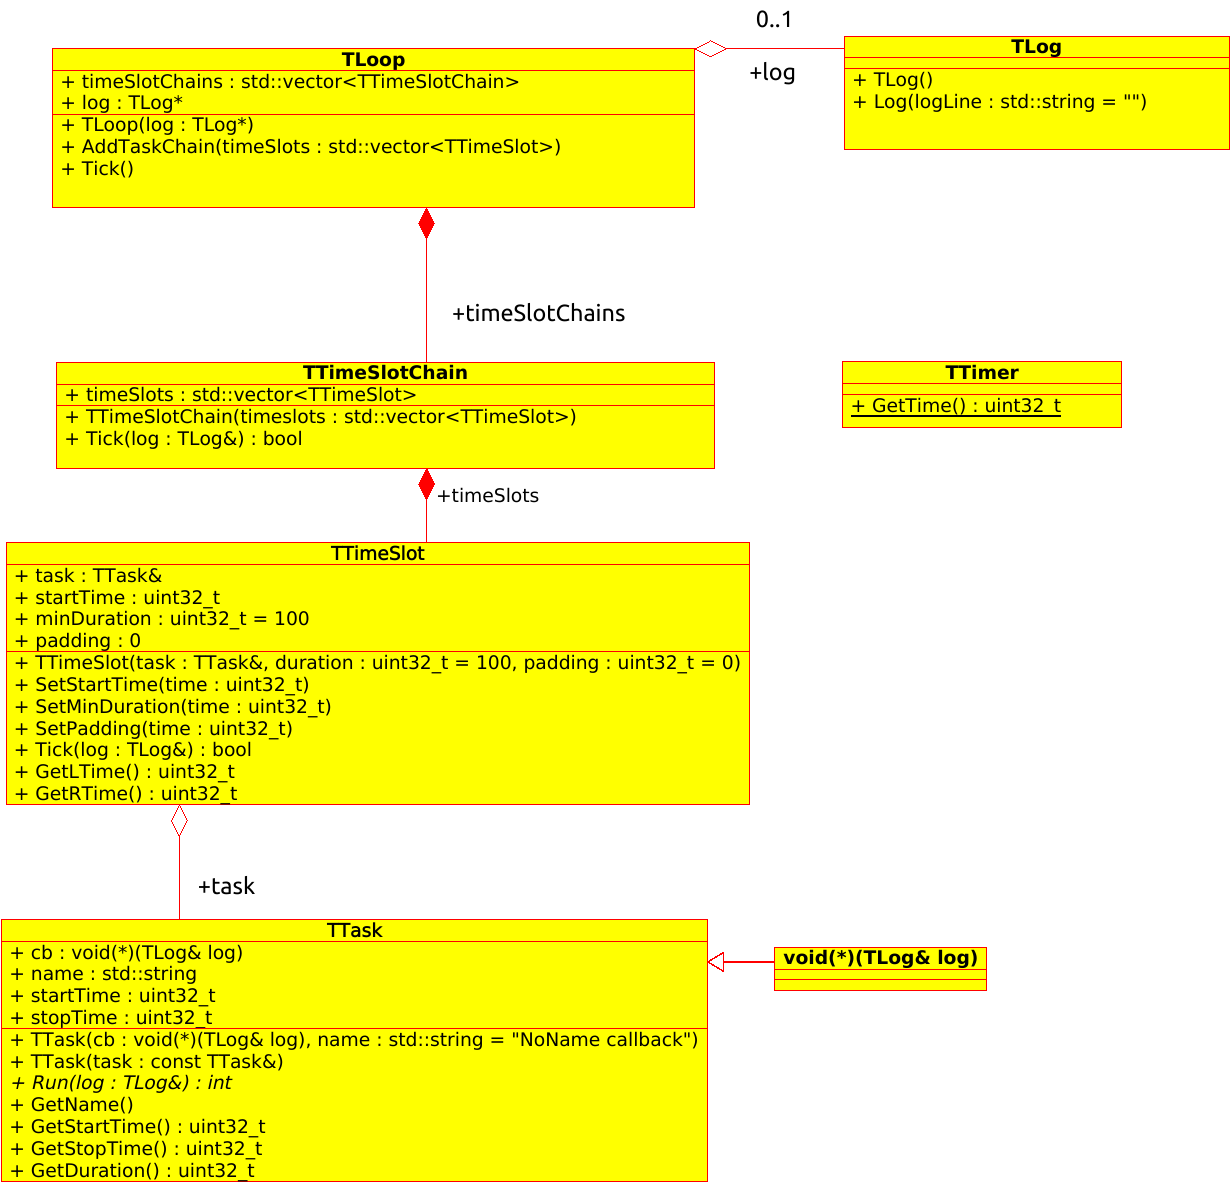
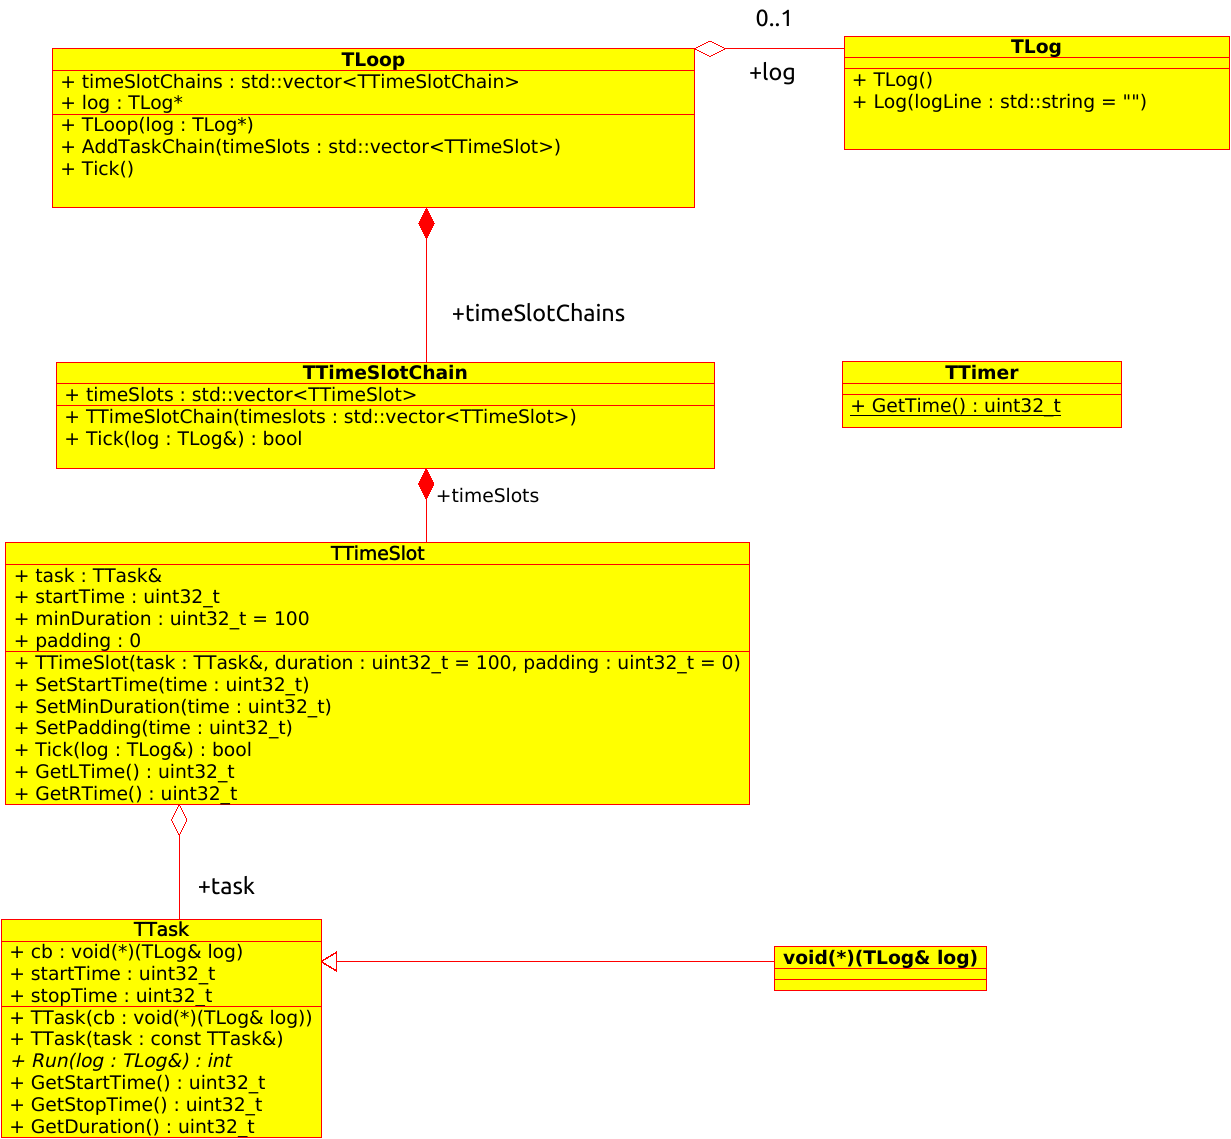
Code refactoring

diff --git a/src/MTLoop_ut.cpp b/src/MTLoop_ut.cpp
@@ -26,9 +26,9 @@ BOOST_AUTO_TEST_SUITE(testSuiteMTLoop)
 
         TTimeSlotFixture() {
             log = std::shared_ptr<TLog>(new TLog);
-            myTask1 = new TTask([](TLog& log){}, "MyTask 1");
-            myTask2 = new TTask([](TLog& log){}, "MyTask 2");
-            myTask3 = new TTask([](TLog& log){}, "MyTask 3");
+            myTask1 = new TTask([](TLog& log){});
+            myTask2 = new TTask([](TLog& log){});
+            myTask3 = new TTask([](TLog& log){});
             slot1 = new TTimeSlot(*myTask1, 100, 10);
             slot2 = new TTimeSlot(*myTask2, 100, 10);
             slot3 = new TTimeSlot(*myTask3, 100, 10);
@@ -55,7 +55,7 @@ BOOST_AUTO_TEST_SUITE(testSuiteMTLoop)
                     std::cout << "RUN!!!" << std::endl;
                 #endif
                 TTimer::time += 50;
-            }, "TestTask");
+            });
         }
        ~TTaskFixture() {
            delete myTask;
@@ -67,8 +67,6 @@ BOOST_AUTO_TEST_SUITE(testSuiteMTLoop)
         {
             TTimeSlot slot = { *myTask, 100, 0 };
             slot.SetStartTime(5);
-
-            BOOST_CHECK_EQUAL(myTask->GetName(), "TestTask");
 
             BOOST_CHECK_EQUAL(slot.GetLTime(), 5);
             BOOST_CHECK_EQUAL(slot.GetRTime(), 5 + 100 - 1);

diff --git a/libraries/MTLoop/MTLoop.h b/libraries/MTLoop/MTLoop.h
@@ -59,23 +59,18 @@ namespace MT {
 
         private:
             callbackPtr cb;
-            std::string name;
             uint32_t startTime = 0;
             uint32_t stopTime = 0;
 
         public:
-            TTask(callbackPtr cb, std::string name = "NoName callback"): cb(cb), name(name) {}
-            TTask(const TTask& task): cb(task.cb), name(task.name) {}
+            TTask(callbackPtr cb): cb(cb) {}
+            TTask(const TTask& task): cb(task.cb) {}
 
             inline void Run(TLog& log) {
                 startTime = TTimer::GetTime();
                 cb(log);
                 stopTime = TTimer::GetTime();
             };
-
-            inline const std::string& GetName() {
-                return name;
-            }
 
             inline uint32_t GetStartTime() {
                 return startTime;
